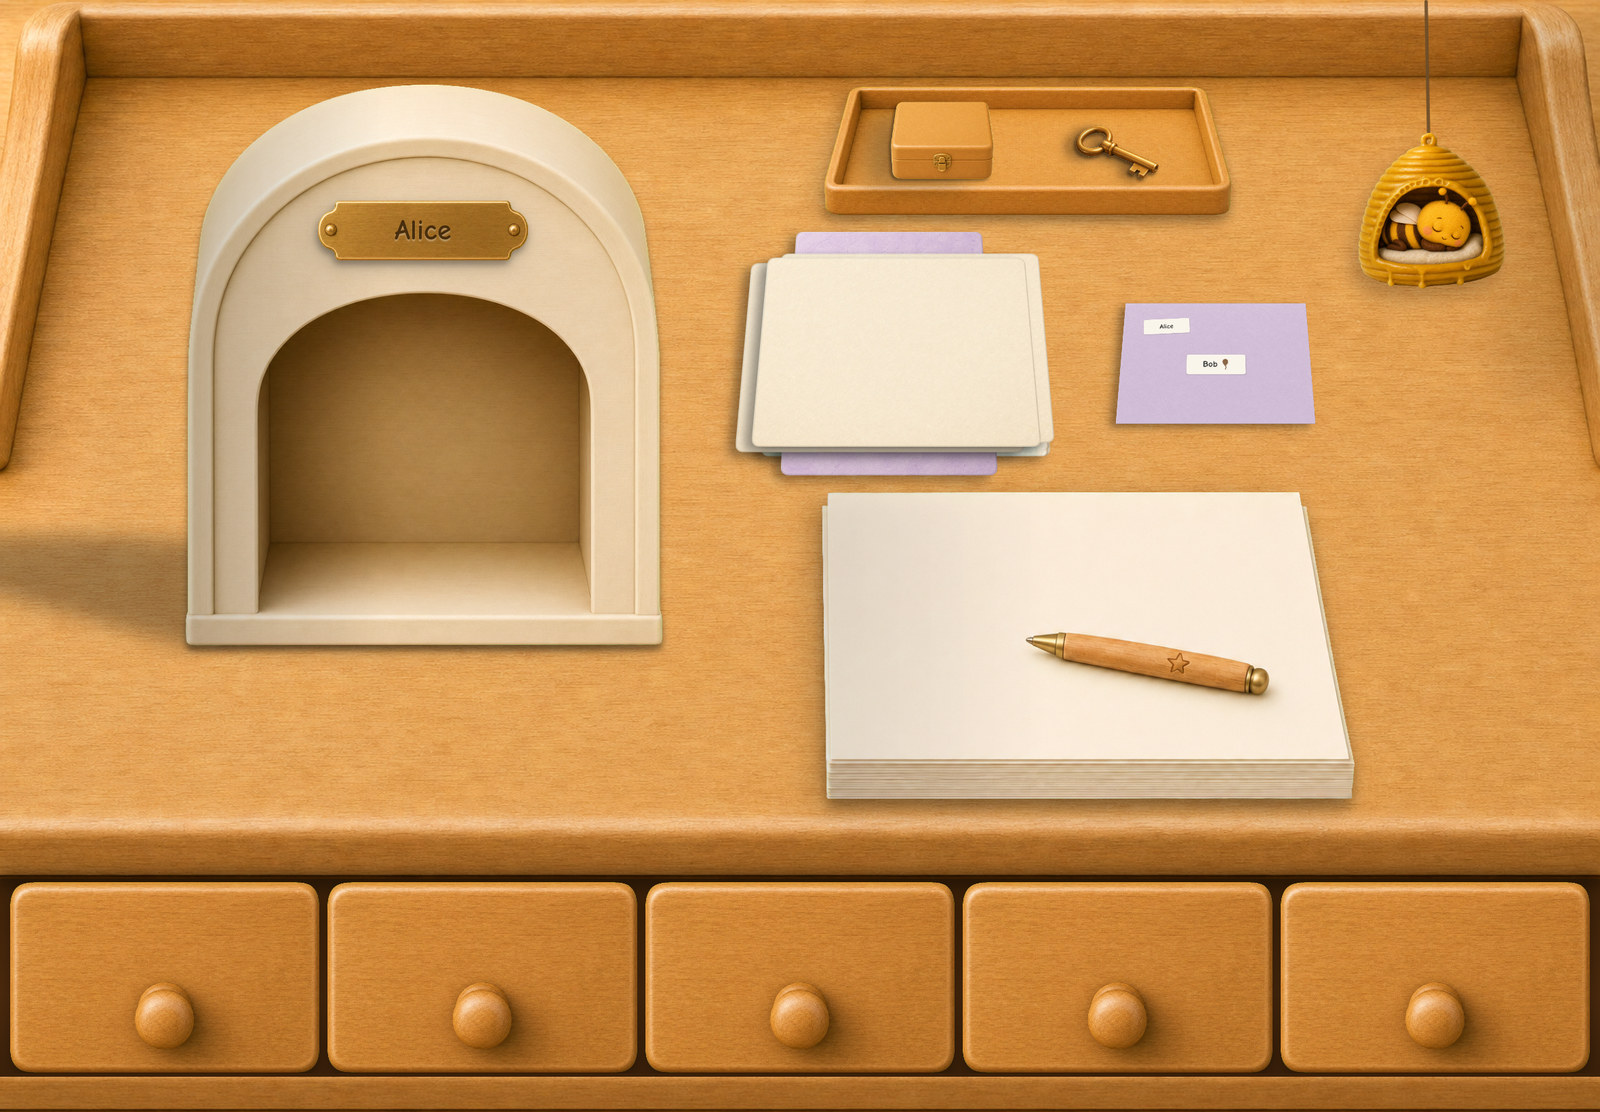
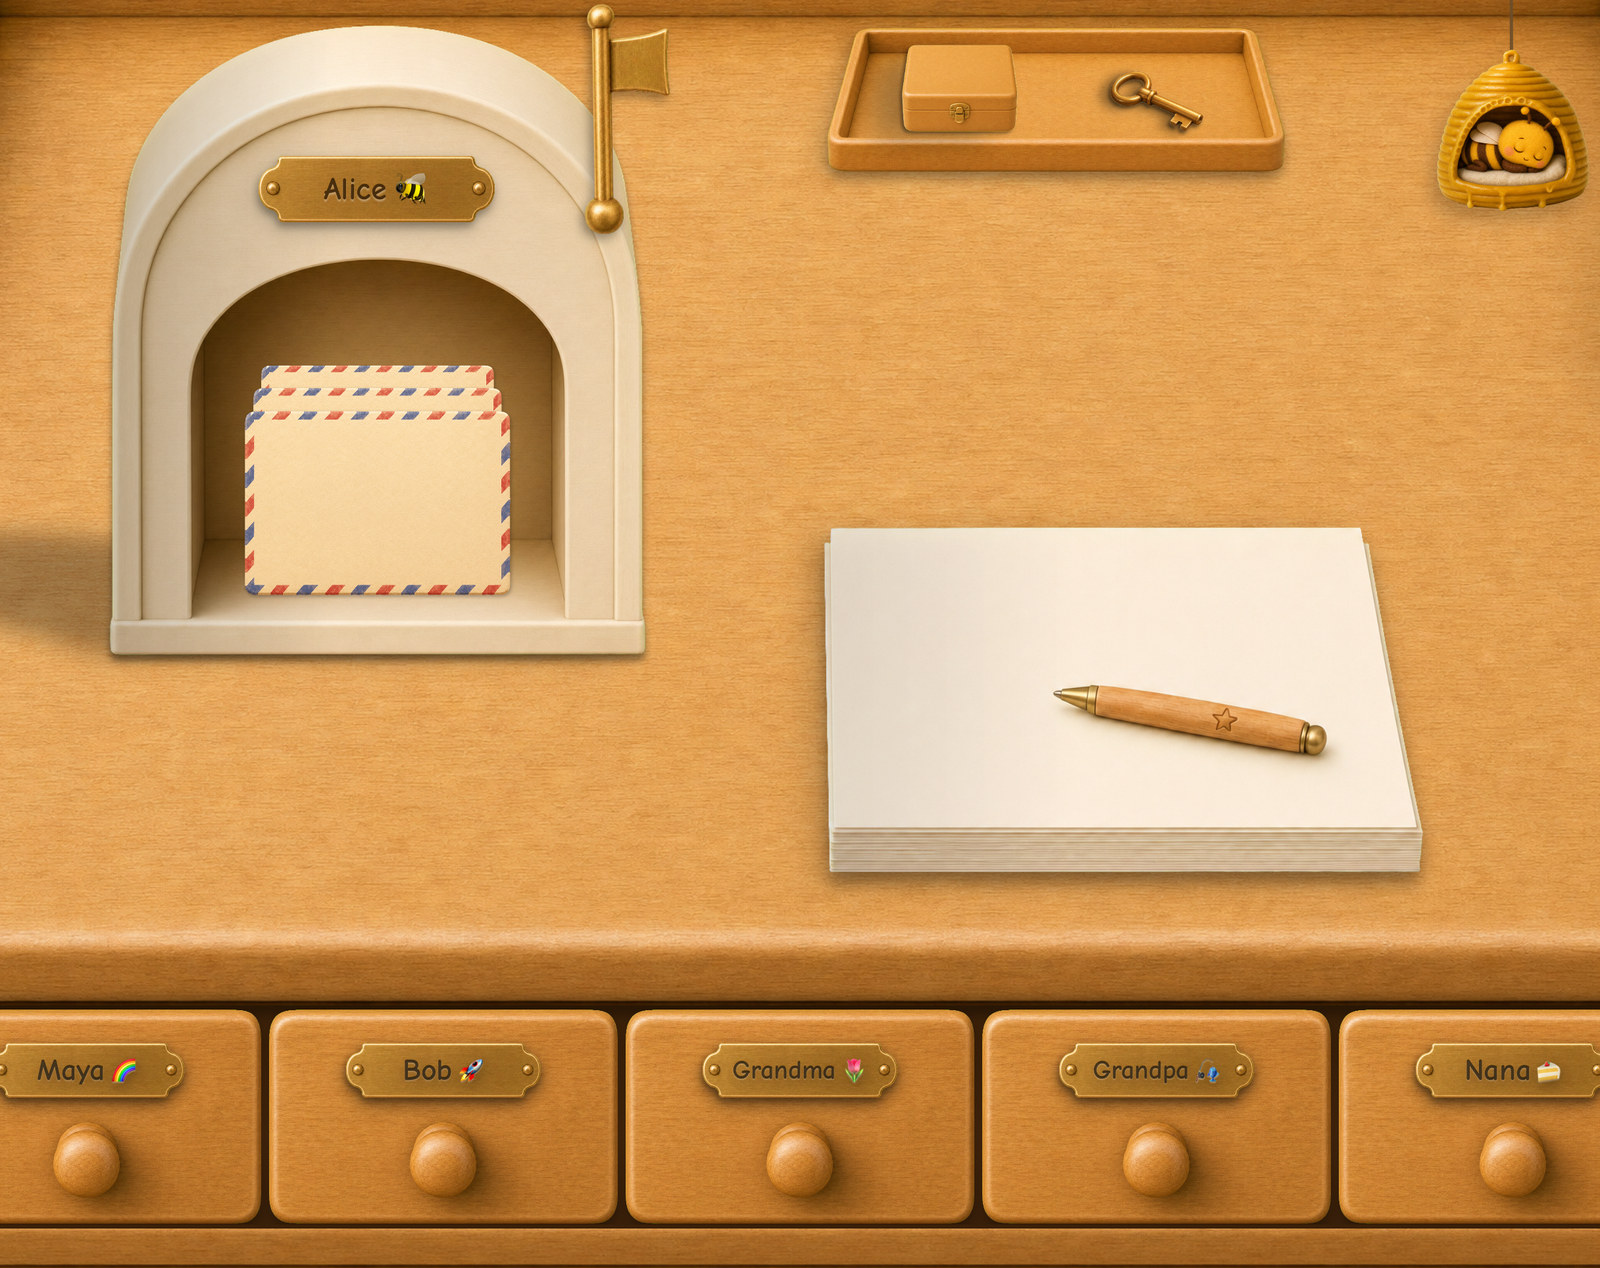
Full-bleed the hero, and shoot a desk that looks lived in
Two fixes to the hero.

The desk is now SEEDED rather than whatever dev state was lying around: five
named drawers with an emoji each, an emoji on Alice's mailbox, flag up and
mail waiting. The previous shot had three empty drawers and read as a
half-built app. Seed lives in the app repo as scripts/marketing-desk-seed.sh
so the shot is reproducible instead of a lucky screenshot.

And it is full bleed. The old crop showed the desk's own outer rails and then
stopped at a rounded card edge, so it read as a cut-out object pasted onto the
page. The screenshot is now cropped INSIDE those rails and spans the viewport
with no border, radius or shadow — every one of which would redraw the edge
the crop just removed. The wood runs off both sides and the drawers cut at the
bottom, so the surface reads as continuing past the frame.

Also: "approved by an adult" -> "approved by an admin", matching the term the
app and the docs use everywhere else.

diff --git a/styles.css b/styles.css
@@ -110,19 +110,19 @@ a:hover { text-decoration: underline; }
 
 /* ---------- Product shot ---------- */
 .shot {
-  margin: 0 auto 56px;
-  padding: 0 22px;
-  max-width: 1040px;
+  margin: 0 0 56px;
+  padding: 0;
+  width: 100%;
 }
 .shot img {
   width: 100%;
   height: auto;
   display: block;
-  border-radius: 20px;
-  border: 1px solid var(--line);
-  /* Tinted to the desk's own warm wood rather than neutral grey, so the shot
-     sits on the paper instead of hovering over it. */
-  box-shadow: 0 24px 60px rgba(120, 84, 40, 0.20);
+  /* FULL BLEED. The screenshot is cropped inside the desk's own rails, so the
+     wood runs off both edges of the viewport and reads as a surface that
+     continues rather than a cut-out object sitting on the page. No border,
+     no radius, no shadow — every one of those redraws the edge we just
+     removed. */
 }
 
 /* ---------- Assurance ---------- */

diff --git a/index.html b/index.html
@@ -36,14 +36,14 @@
     <figure class="shot">
       <img src="assets/app-desk.jpg"
            alt="The Buzzybox writing desk on iPad — a mailbox, a stack of paper and pen, drafts, and a sealed envelope"
-           width="1600" height="1112" />
+           width="1600" height="1268" />
     </figure>
 
     <!-- One line, not three cards. The headline and the screenshot already
          cover writing and sending; the only thing left that a parent needs
          and cannot see is who is allowed to reach their child. -->
     <section class="assurance">
-      <p>Every contact is approved by an adult. No feeds, no ads, no strangers.</p>
+      <p>Every contact is approved by an admin. No feeds, no ads, no strangers.</p>
     </section>
   </main>
 
